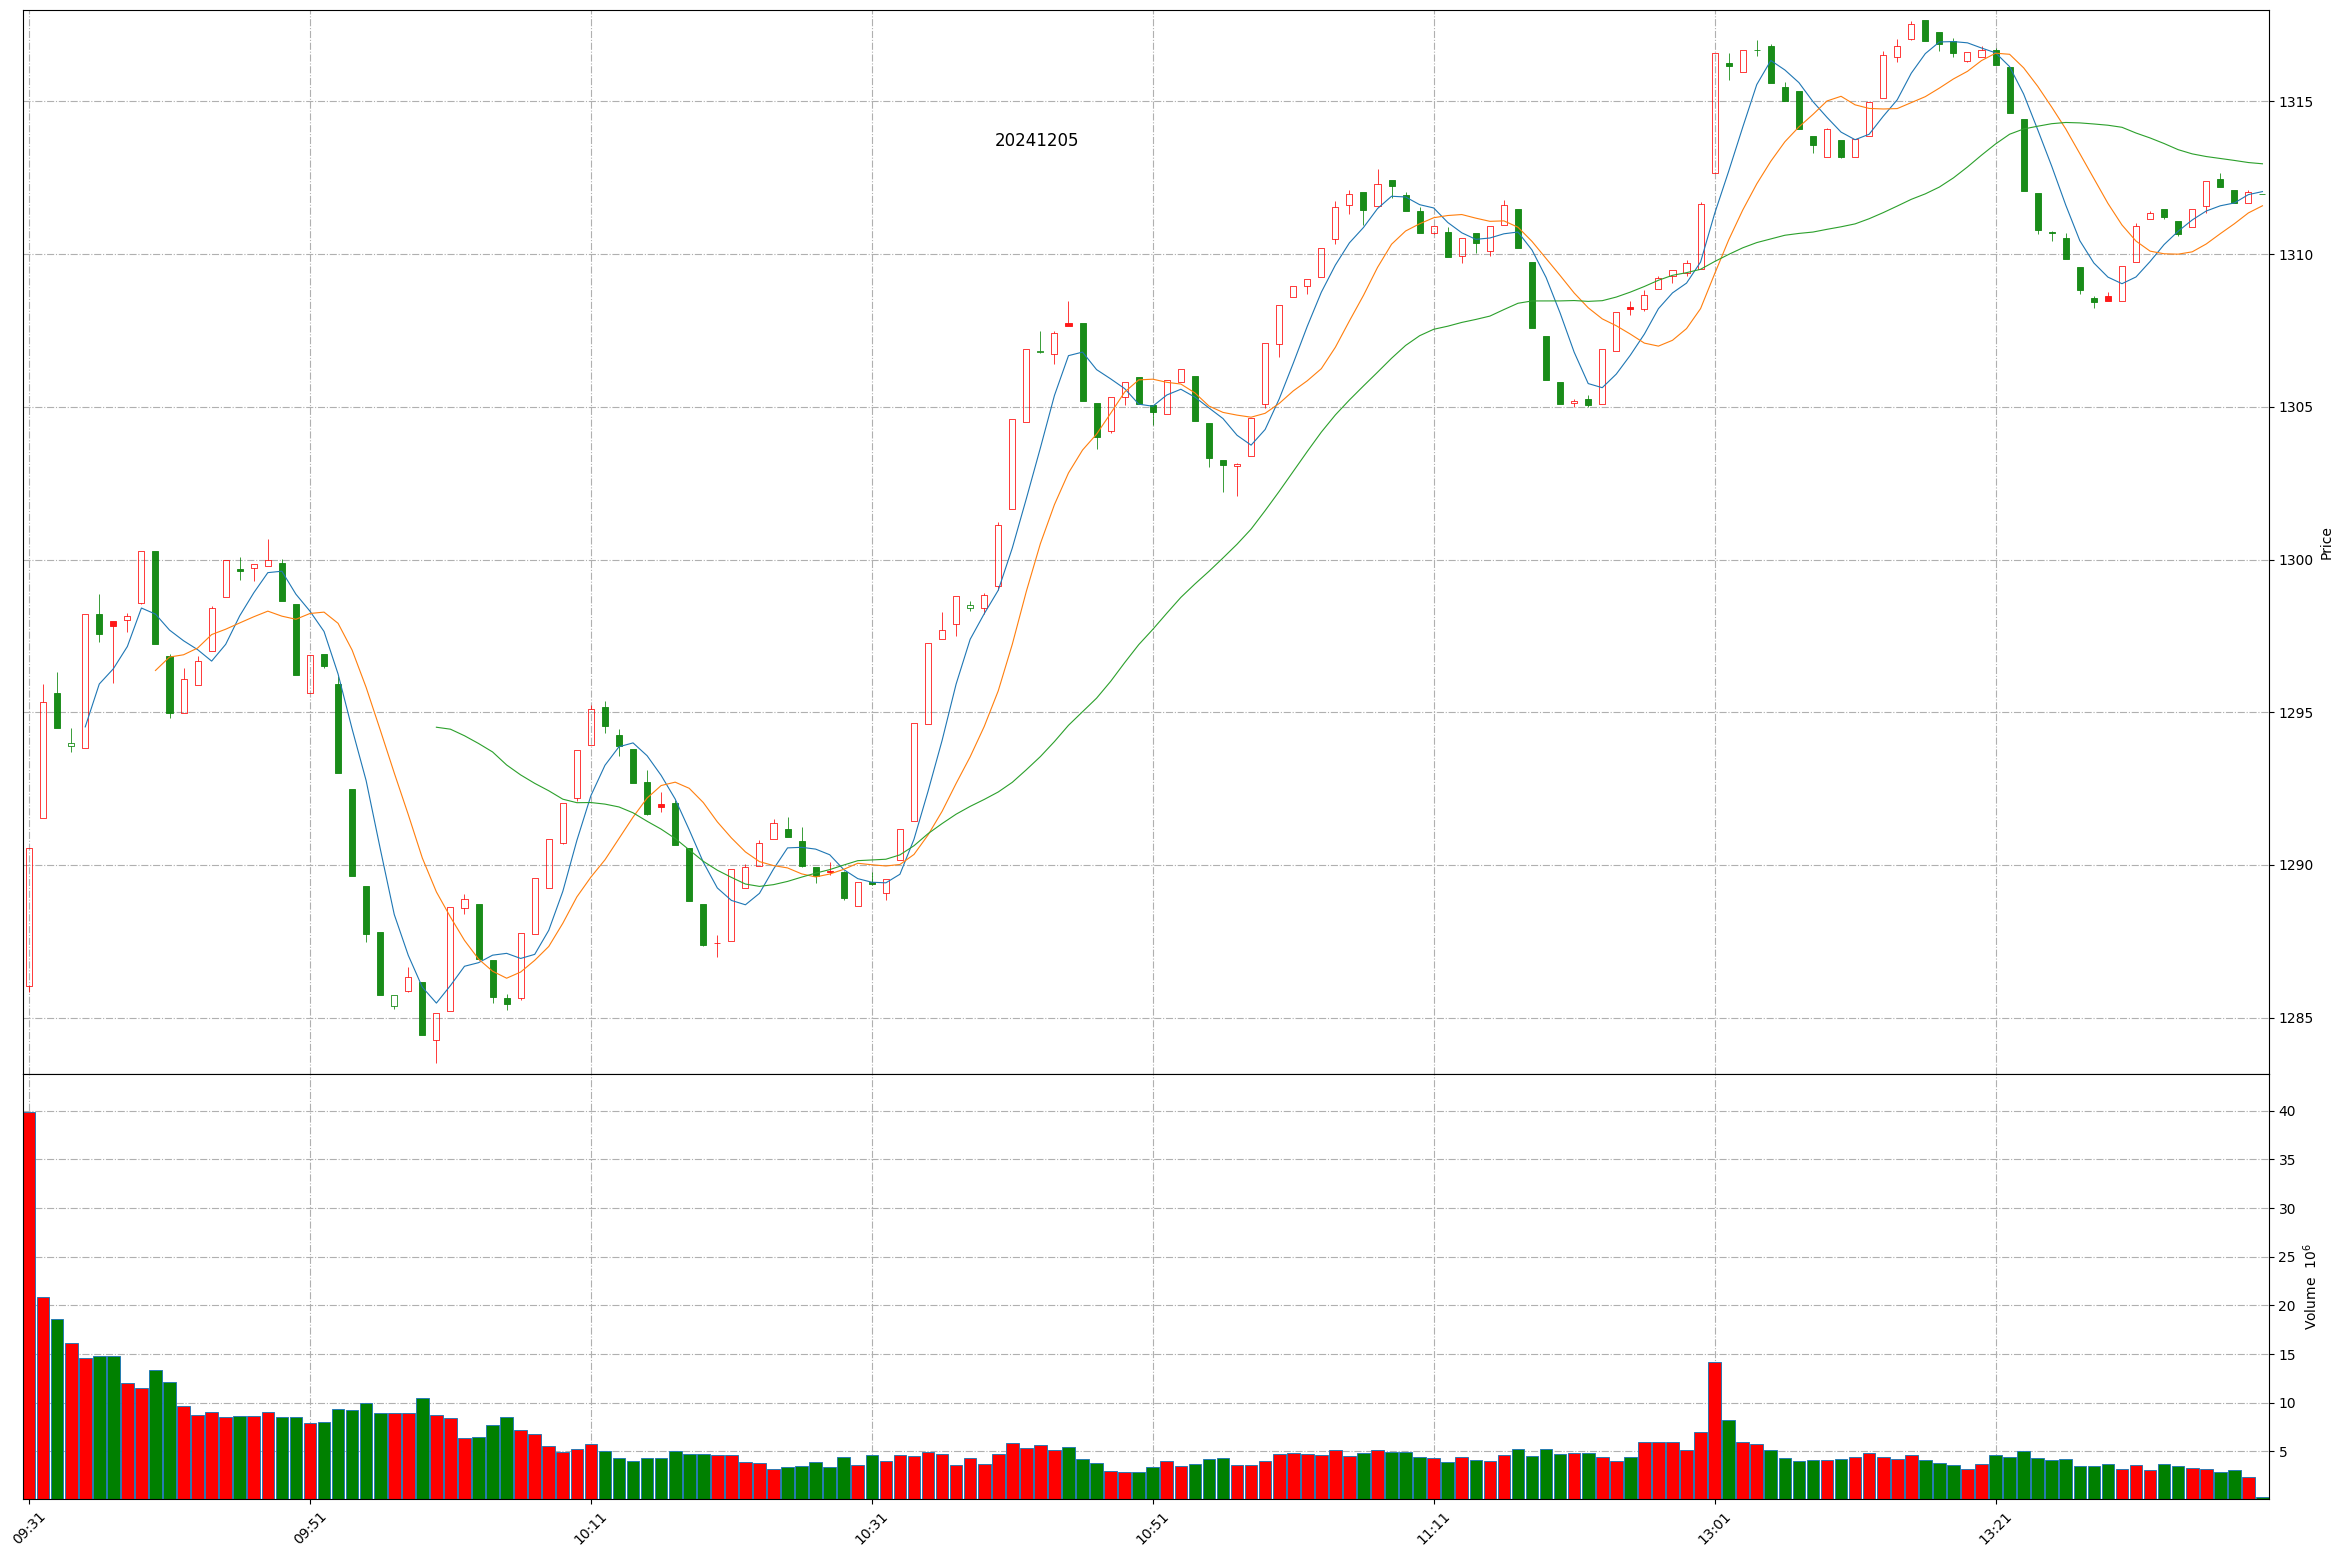
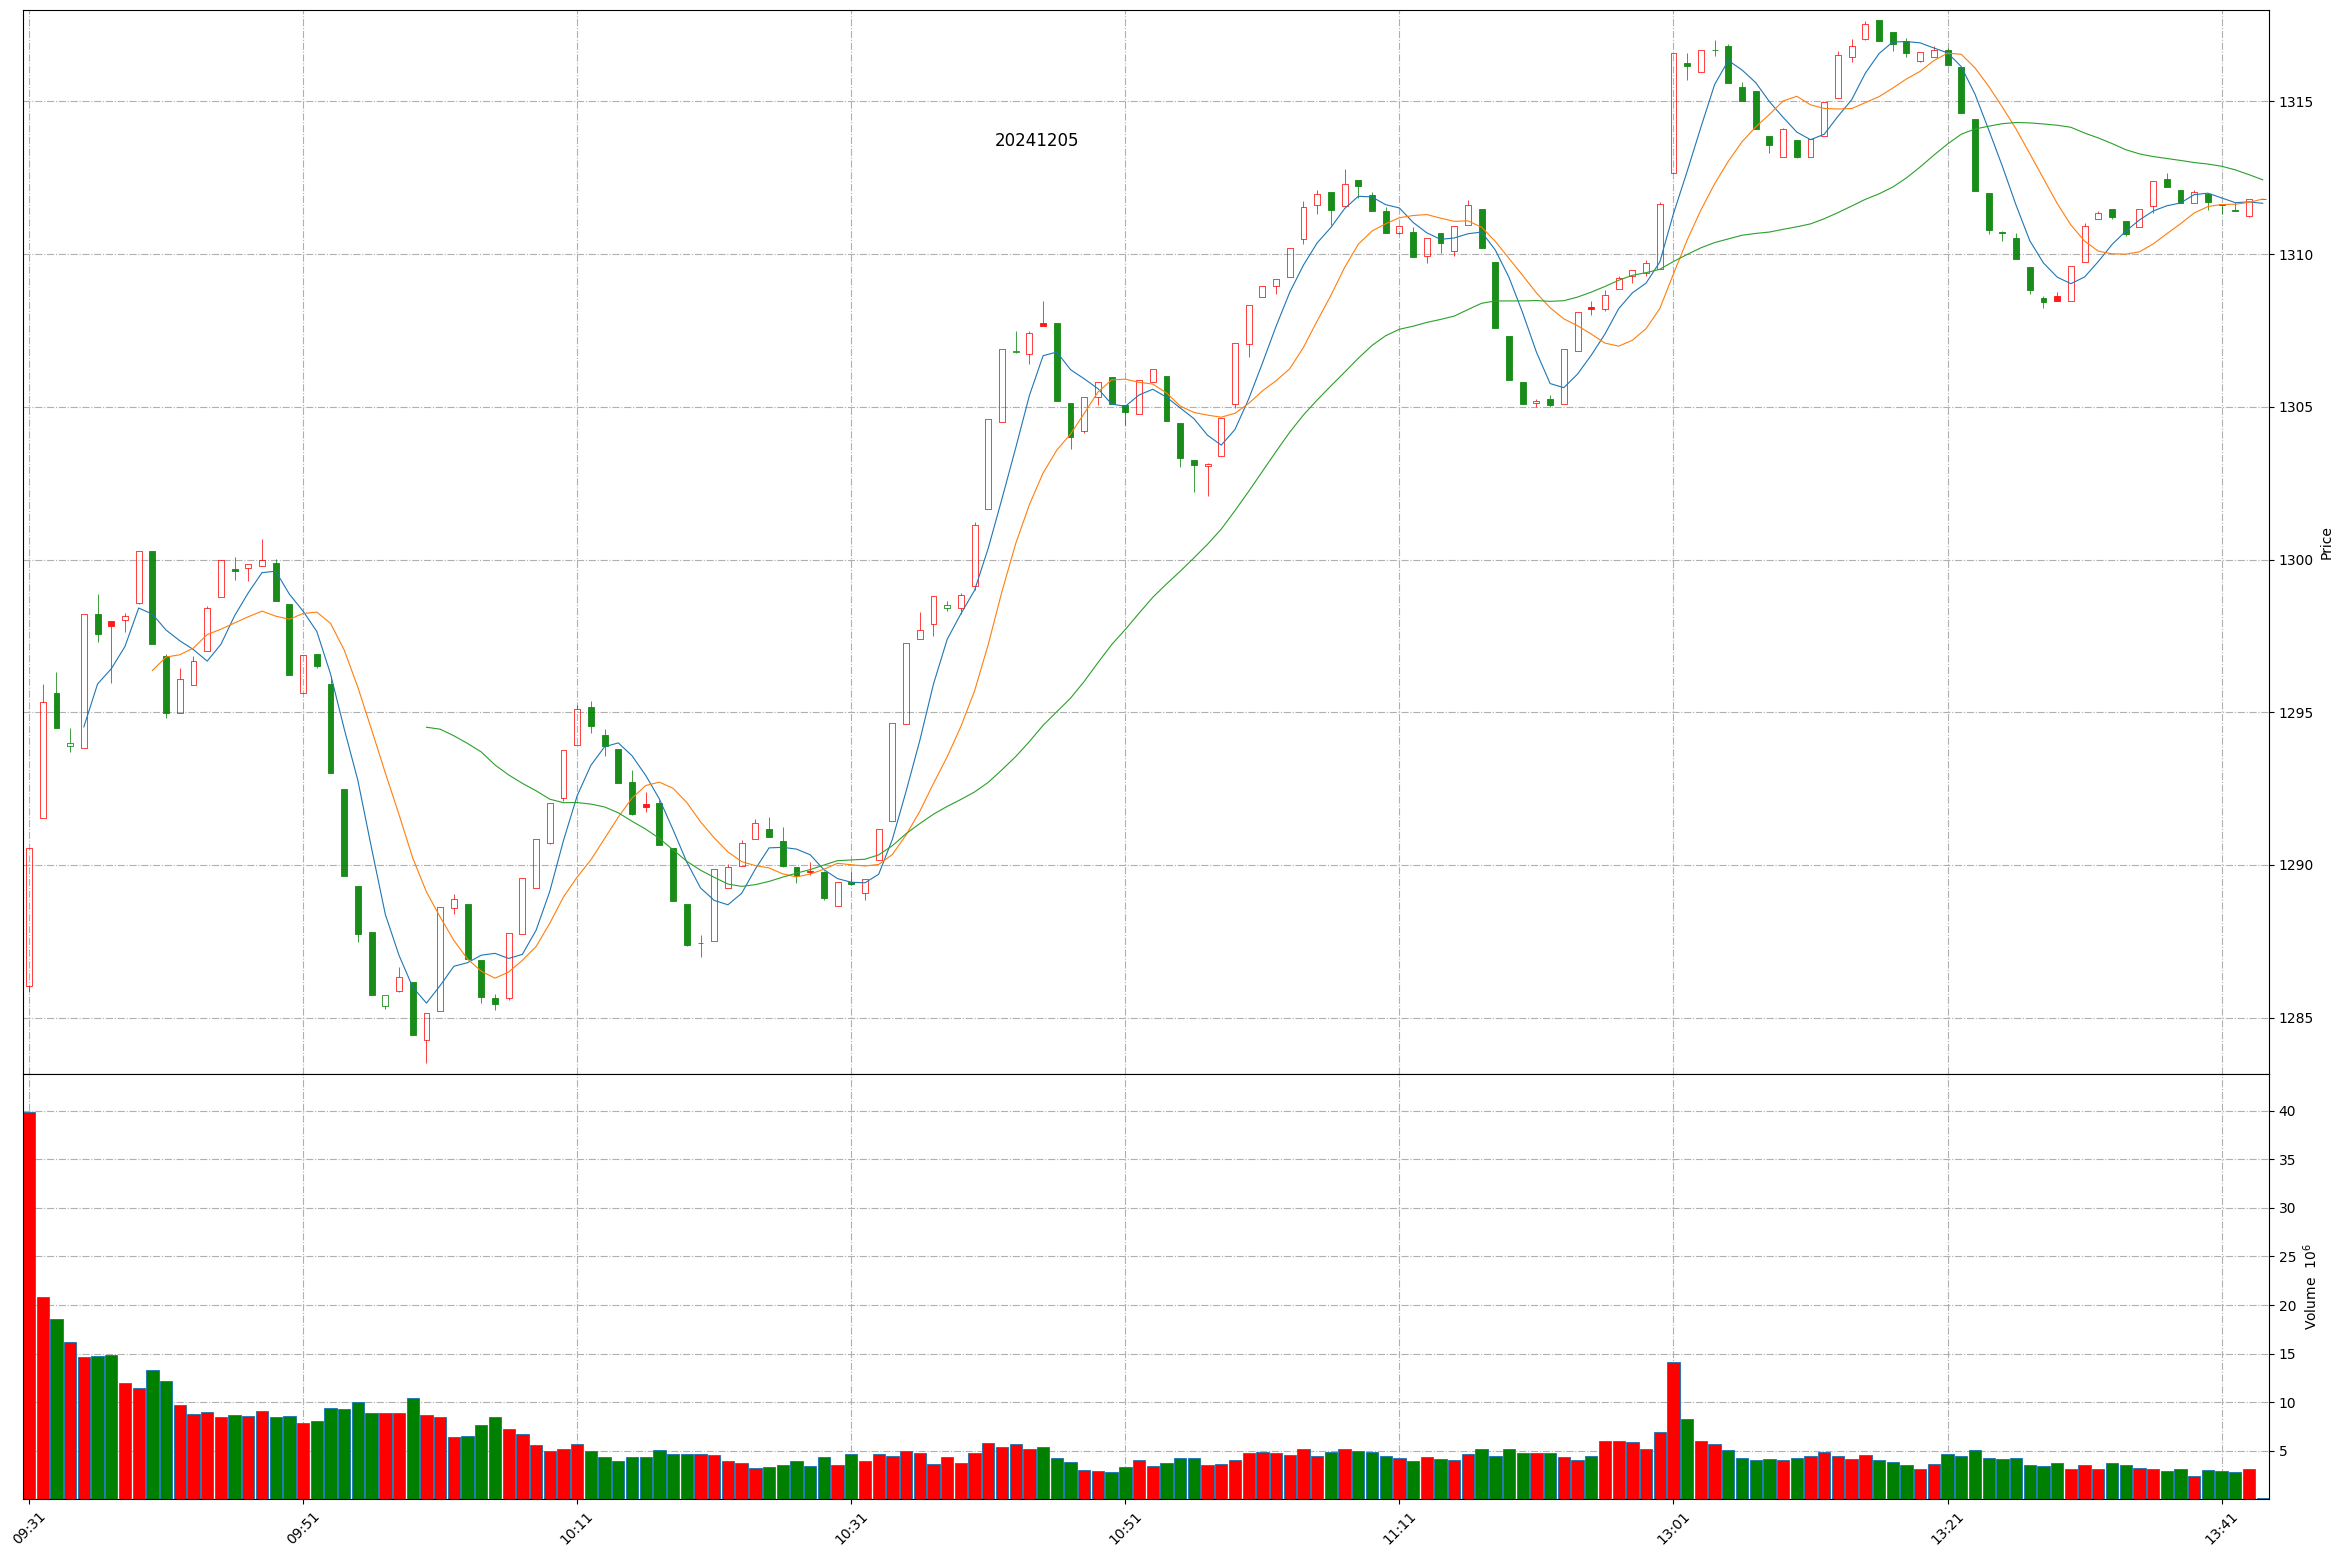
Github action update at 2024-12-05 13:43:11.

diff --git a/README.md b/README.md
@@ -1,11 +1,11 @@
 
 # Daily-A-share-market-quotes 每日 A 股指数（5min 更新）- 20241205
 
-### 上证指数 20241205 13:39
+### 上证指数 20241205 13:43
 ![](./fig/2024/12/20241205-sh000001.png)
 
-### 深证成指 20241205 13:39
+### 深证成指 20241205 13:43
 ![](./fig/2024/12/20241205-sz399001.png)
 
-### 北证50 20241205 13:39
+### 北证50 20241205 13:43
 ![](./fig/2024/12/20241205-bj899050.png)
